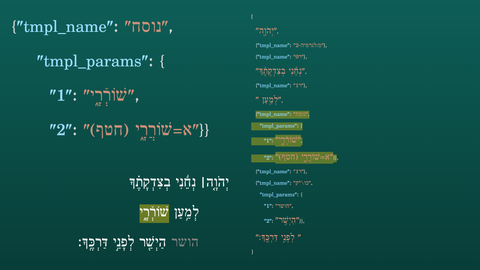
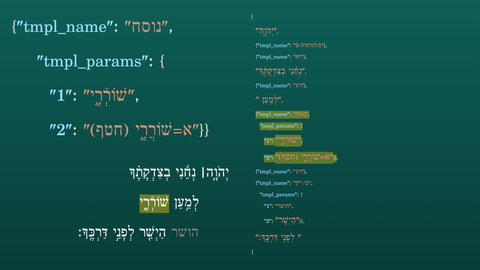
regen "MAM is a dataset"

Changed region(s): [[0.1562, 0.6222, 0.5, 0.9481], [0.5, 0.4444, 0.5625, 0.6222]]

diff --git a/misc/mam-is-a-dataset/img-sources/slide-psalm-15v1-qamats.html b/misc/mam-is-a-dataset/img-sources/slide-psalm-15v1-qamats.html
@@ -39,10 +39,10 @@
 </style>
 </head>
 <body><pre><span style="color:#d4d4d4;">{</span><span style="color:#d4d4d4;">
-  </span><span style="color:#9cdcfe;">"tmpl_name"</span><span style="color:#d4d4d4;">:</span><span style="color:#d4d4d4;"> </span><bdi><span style="color:#ce9178;">"מ:קמץ"</span></bdi><span style="color:#d4d4d4;">,</span><span style="color:#d4d4d4;">
+  </span><span style="color:#9cdcfe;">"tmpl_name"</span><span style="color:#d4d4d4;">:</span><span style="color:#d4d4d4;"> </span><bdi dir="rtl"><span style="color:#ce9178;">"מ:קמץ"</span></bdi><span style="color:#d4d4d4;">,</span><span style="color:#d4d4d4;">
   </span><span style="color:#9cdcfe;">"tmpl_params"</span><span style="color:#d4d4d4;">:</span><span style="color:#d4d4d4;"> </span><span style="color:#d4d4d4;">{</span><span style="color:#d4d4d4;">
-    </span><bdi><span style="color:#9cdcfe;">"ד"</span></bdi><span style="color:#d4d4d4;">:</span><span style="color:#d4d4d4;"> </span><bdi><span style="color:#ce9178; font-size:96px; font-feature-settings:'ss03'">"בְּאׇהֳלֶ֑ךָ"</span></bdi><span style="color:#d4d4d4;">,</span><span style="color:#d4d4d4;">
-    </span><bdi><span style="color:#9cdcfe;">"ס"</span></bdi><span style="color:#d4d4d4;">:</span><span style="color:#d4d4d4;"> </span><bdi><span style="color:#ce9178; font-size:96px; font-feature-settings:'ss03'">"בְּאָהֳלֶ֑ךָ"</span></bdi><span style="color:#d4d4d4;">
+    </span><bdi dir="rtl"><span style="color:#9cdcfe;">"ד"</span></bdi><span style="color:#d4d4d4;">:</span><span style="color:#d4d4d4;"> </span><bdi dir="rtl"><span style="color:#ce9178; font-size:96px; font-feature-settings:'ss03'">"בְּאׇהֳלֶ֑ךָ"</span></bdi><span style="color:#d4d4d4;">,</span><span style="color:#d4d4d4;">
+    </span><bdi dir="rtl"><span style="color:#9cdcfe;">"ס"</span></bdi><span style="color:#d4d4d4;">:</span><span style="color:#d4d4d4;"> </span><bdi dir="rtl"><span style="color:#ce9178; font-size:96px; font-feature-settings:'ss03'">"בְּאָהֳלֶ֑ךָ"</span></bdi><span style="color:#d4d4d4;">
   </span><span style="color:#d4d4d4;">}</span><span style="color:#d4d4d4;">
 </span><span style="color:#d4d4d4;">}</span><span style="color:#d4d4d4;">
[1 lines of base64/hex data omitted]
